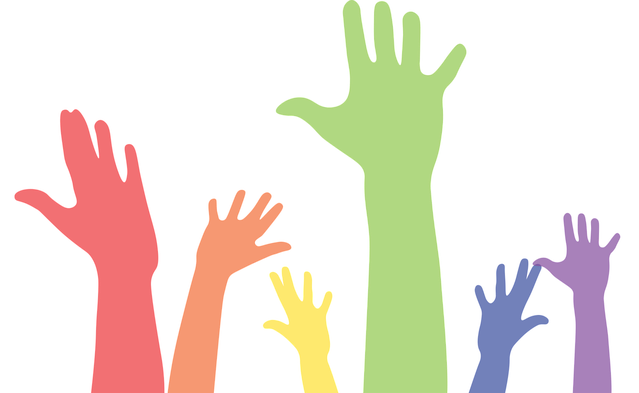
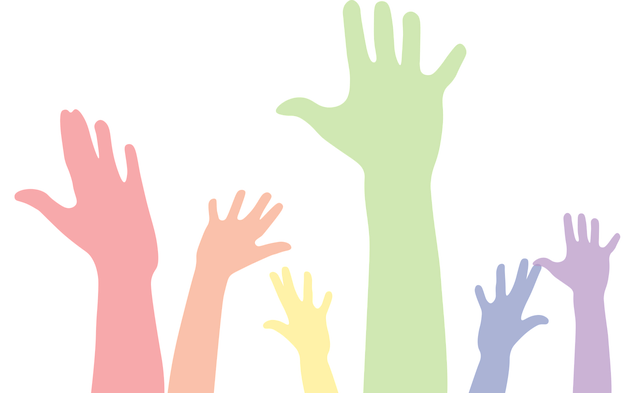
wcag compliant color changes

diff --git a/styles.css b/styles.css
@@ -27,7 +27,7 @@ footer {
 
 header {
   max-width: 100%;
-  border-color: #3fa652;
+  border-color: #1b862f;
   border-style: solid;
   border-width: 0px 0px 1px 0px;
   display: grid;
@@ -85,7 +85,7 @@ nav li {
   padding: 40px 50px;
   height: 275px;
   width: 200px;
-  box-shadow: 1px 4px 6px #3fa652;
+  box-shadow: 1px 4px 6px #1b862f;
 }
 
 .hamburger ul {
@@ -110,7 +110,7 @@ ul {
 }
 
 .hamburger a:hover {
-  color: #3fa652;
+  color: #1b862f;
   transform: scale(1.1);
   transition: all 0.3s ease;
 }
@@ -126,7 +126,7 @@ header i {
 
 footer {
   text-align: center;
-  background-color: #3fa652;
+  background-color: #1b862f;
   color: white;
   font-family: gudea;
   padding-bottom: 20px;
@@ -194,7 +194,7 @@ a {
   z-index: 1;
   display: block;
   width: 100%;
-  background-color: rgba(63, 166, 88, 0.55);
+  background-color: rgba(27, 134, 47, 0.55);
   color: white;
 }
 
@@ -204,7 +204,7 @@ a {
 }
 
 .cta a {
-  background-color: #fd3131;
+  background-color: #eb0000;
   color: white;
   padding: 12px 30px;
   text-align: center;
@@ -267,7 +267,7 @@ a {
 }
 
 .exhibition_spaces div:last-child {
-  background-color: #3fa652;
+  background-color: #1b862f;
   border-radius: 0px 35px;
   box-shadow: 1px 3px 6px grey;
 }
@@ -278,7 +278,7 @@ a {
 }
 
 .exhibition_spaces div:nth-child(5) p {
-  color: #3fa652;
+  color: #1b862f;
   text-shadow: 1px 3px 4px rgb(175, 175, 175);
 }
 
@@ -352,12 +352,11 @@ a {
   margin: 0px;
 }
 
-.get_involved_background {
+.get_involved {
   margin: 0px 40px -16px;
   background-image: url("images/volunteer_background.png");
   background-repeat: no-repeat;
   background-size: 80%;
-  opacity: 60%;
   background-position: center bottom;
   background-attachment: fixed;
   padding: 20px 0px 100px;
@@ -416,7 +415,7 @@ table {
 }
 
 table tr:first-child {
-  color: #fd3131;
+  color: #eb0000;
 }
 
 .map {
@@ -590,6 +589,7 @@ table tr:first-child {
     padding-right: 0px;
     grid-column: 3;
     grid-row: 2;
+    height: 50%;
   }
   nav li {
     display: inline;
@@ -633,7 +633,7 @@ table tr:first-child {
   }
 
   .hamburger a:hover {
-    color: #3fa652;
+    color: #1b862f;
   }
 
   .hamburger_menu {
